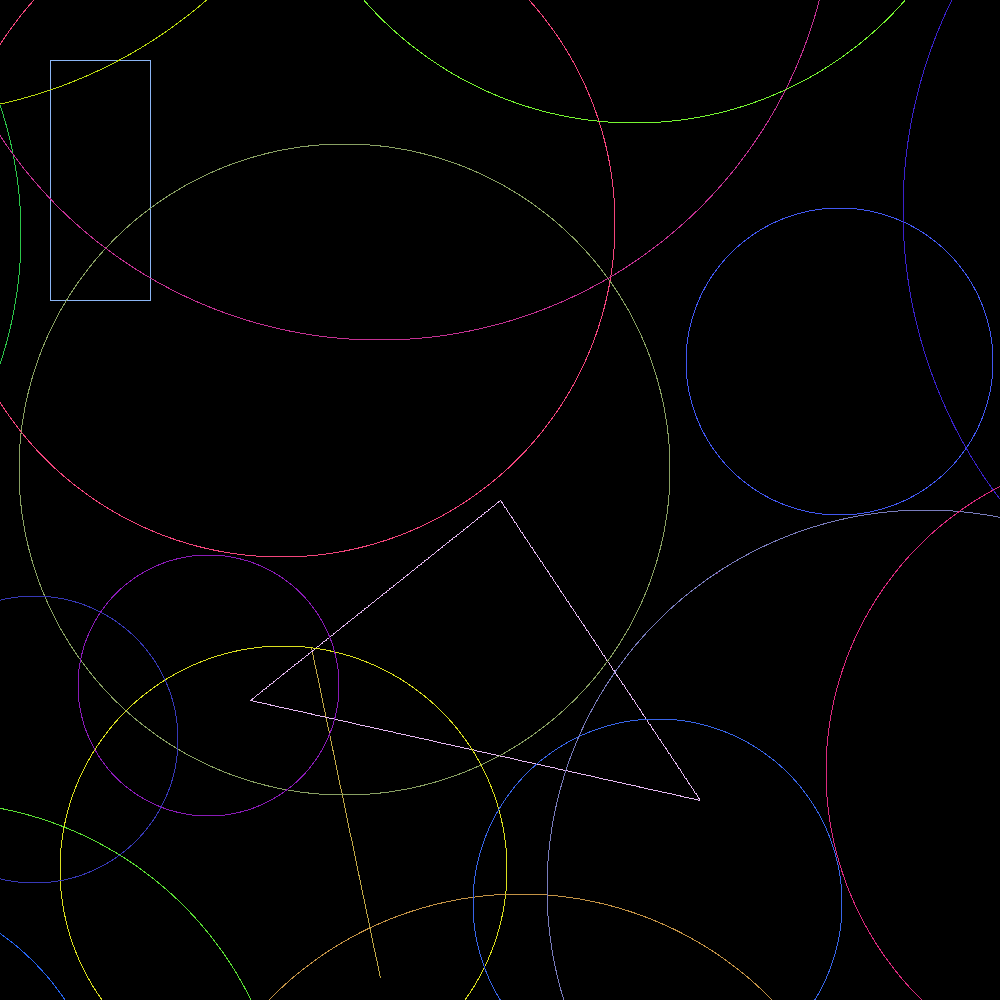
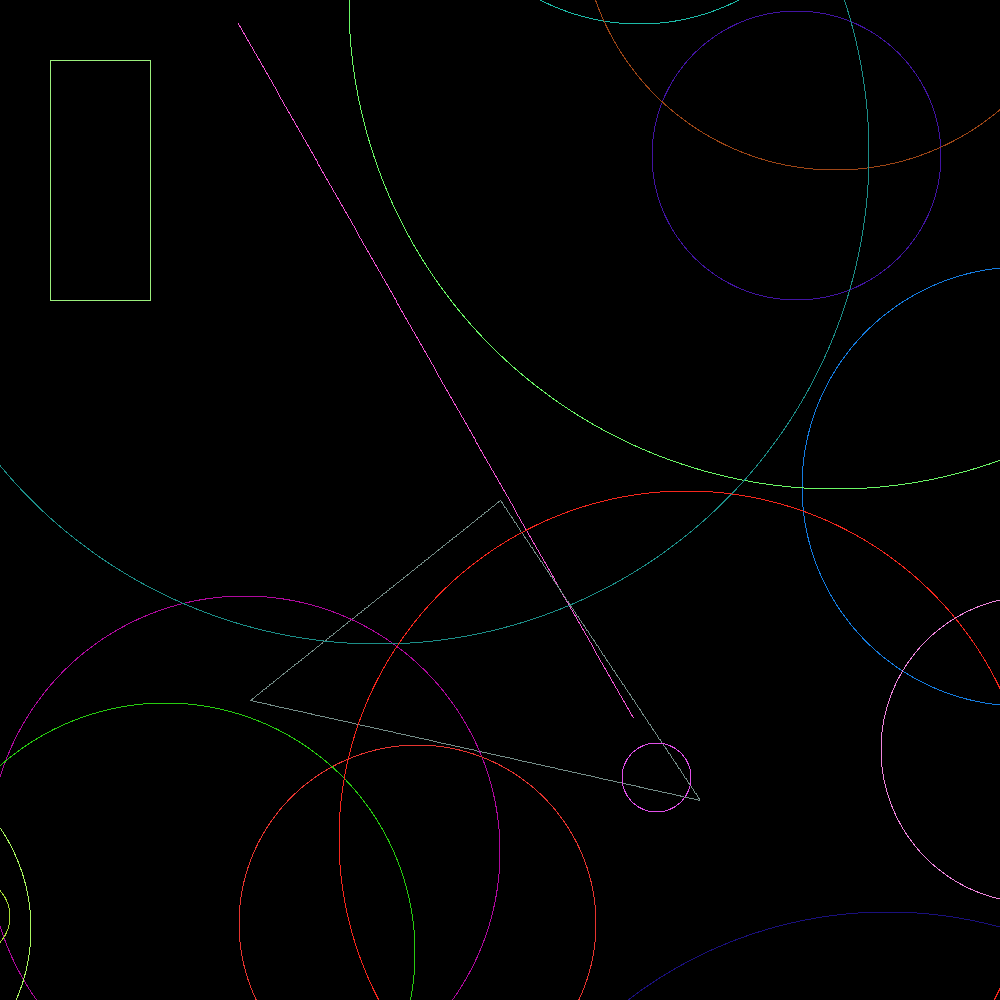
new

diff --git a/src/main.rs b/src/main.rs
@@ -7,23 +7,25 @@ use raster::{Color, Image};
 fn main() {
     let mut image = Image::blank(1000, 1000);
 
-    gs::Line::random(image.width, image.height).draw(&mut image);
+    // gs::Line::random(image.width, image.height).draw(&mut image);
 
-    gs::Point::random(image.width, image.height).draw(&mut image);
+    // gs::Point::random(image.width, image.height).draw(&mut image);
 
-    let rectangle = gs::Rectangle::new(&gs::Point::new(150, 300), &gs::Point::new(50, 60));
-    rectangle.draw(&mut image);
+    // let rectangle = gs::Rectangle::new(&gs::Point::new(150, 300), &gs::Point::new(50, 60));
+    // rectangle.draw(&mut image);
 
-    let triangle = gs::Triangle::new(
-        &gs::Point::new(500, 500),
-        &gs::Point::new(250, 700),
-        &gs::Point::new(700, 800),
-    );
-    triangle.draw(&mut image);
+    // let triangle = gs::Triangle::new(
+    //     &gs::Point::new(500, 500),
+    //     &gs::Point::new(250, 700),
+    //     &gs::Point::new(700, 800),
+    // );
+    // triangle.draw(&mut image);
 
-    for _ in 1..50 {
-        gs::Circle::random(image.width, image.height).draw(&mut image);
-    }
+    // for _ in 1..50 {
+    //     gs::Circle::random(image.width, image.height).draw(&mut image);
+    // }
+
+    let 
 
     raster::save(&image, "image.png").unwrap();
 }

diff --git a/src/geometrical_shapes.rs b/src/geometrical_shapes.rs
@@ -23,7 +23,7 @@ pub struct Line(pub Point, pub Point);
 pub struct Triangle(pub Point, pub Point, pub Point);
 pub struct Rectangle(pub Point, pub Point);
 pub struct Circle(pub Point, i32);
-// pub struct Cube(pubPoint, i32);
+pub struct Cube(pub Point, pub Point);
 
 impl Point {
     pub fn new(x: i32, y: i32) -> Self {
@@ -151,6 +151,27 @@ impl Drawable for Circle {
         }
     }
 
+}
+
+impl Cube {
+    fn new(a: Point, b: Point)->Cube {
+        Cube(a,b)
+    }
+}
+
+impl Drawable for Cube {
+    fn draw(&self, im: &mut dyn Displayable) {
+        let col = Cube::color();
+        let rec1 = Rectangle::new(&self.0, &self.1);
+        
+        let c = Point::new(self.0.0+(self.1.0-self.0.0)/2, self.0.1-(self.1.1-self.0.1)/2);
+        let d = Point::new(self.1.0+(self.1.0-self.0.0)/2,self.1.1+(self.1.1-self.0.1)/2);
+        
+
+        let rec2: Rectangle = Rectangle::new(&c,&d);
+        Rectangle::draw(&rec1, im);
+        Rectangle::draw(&rec2, im);
+    }
 }
 
 pub fn min(a: i32, b: i32) -> i32 {
